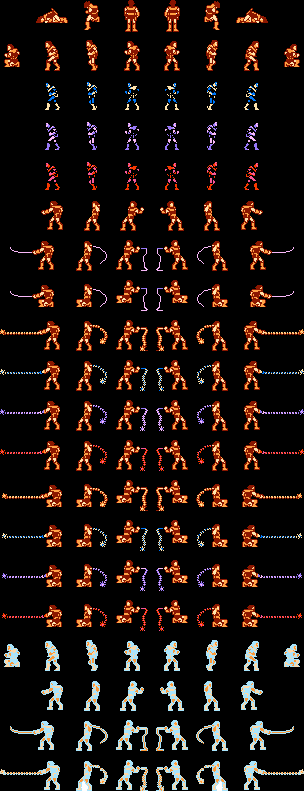
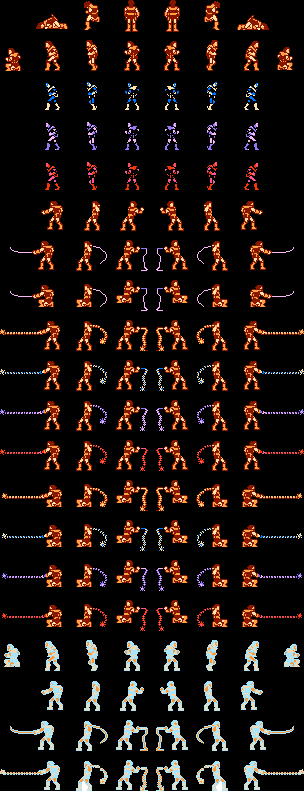
trynna make him sit but messed up

diff --git a/Castlevania/main.cpp b/Castlevania/main.cpp
@@ -10,6 +10,9 @@
 
 #include "Simon.h"
 
+#include <fstream>
+#include <vector>
+
 #define WINDOW_CLASS_NAME L"SampleWindow"
 #define MAIN_WINDOW_TITLE L"CastleVania"
 
@@ -57,6 +60,8 @@ void CSampleKeyHander::KeyState(BYTE *states)
 		simon->SetState(SIMON_STATE_WALKING_RIGHT);
 	else if (game->IsKeyDown(DIK_LEFT))
 		simon->SetState(SIMON_STATE_WALKING_LEFT);
+	else if (game->IsKeyDown(DIK_DOWN))
+		simon->SetState(SIMON_STATE_SIT);
 	else simon->SetState(SIMON_STATE_IDLE);
 }
 
@@ -88,46 +93,83 @@ void LoadResources()
 
 	LPDIRECT3DTEXTURE9 texsimon = textures->Get(ID_TEX_SIMON);
 
+	//vector<int> arr;
 
-	sprites->Add(10001, 139, 39, 184, 73, texsimon);
+	//ifstream File;
+	//File.open("coords.txt");
 
-	sprites->Add(10002, 200, 39, 221, 73, texsimon);
-	sprites->Add(10003, 238, 39, 264, 73, texsimon);
+	//int n;
+	//while (File >> n) {
+	//	arr.push_back(n);
+	//}
+	//File.close();
 
-	sprites->Add(10011, 118, 39, 147, 73, texsimon);
+	//int j = 0;
+	//for (int i = 0; i < arr.size(); i = i + 4)
+	//{
+	//	sprites->Add(j, arr.at(i), arr.at(i + 1), arr.at(i + 2), arr.at(i + 3), texsimon);
+	//	j++;
+	//}
 
-	sprites->Add(10012, 78, 39, 104, 73, texsimon);
-	sprites->Add(10013, 36, 39, 65, 73, texsimon);
 
+	sprites->Add(0, 141, 39, 184, 73, texsimon);
+
+	sprites->Add(1, 202, 39, 221, 73, texsimon);
+	sprites->Add(2, 239, 39, 264, 73, texsimon);
+
+	sprites->Add(3, 118, 39, 147, 73, texsimon);
+
+	sprites->Add(4, 78, 39, 104, 73, texsimon);
+	sprites->Add(5, 36, 39, 65, 73, texsimon);
+
+	sprites->Add(6, 274, 46, 294, 71, texsimon); //sit right
+
+	sprites->Add(7, 2, 46, 22, 71, texsimon); //sit left
+	
+
+	
 
 	LPANIMATION ani;
 
-	ani = new CAnimation(100);	//100 o day la default time.
-	ani->Add(10001);
+	ani = new CAnimation(100);	
+	ani->Add(0);
 	animations->Add(400, ani);
 
 	ani = new CAnimation(100);
-	ani->Add(10011);
+	ani->Add(3);
 	animations->Add(401, ani);
 
-
 	ani = new CAnimation(100);
-	ani->Add(10001);
-	ani->Add(10002);
-	ani->Add(10003);
+	ani->Add(0);
+	ani->Add(1);
+	ani->Add(2);
 	animations->Add(500, ani);
 
 	ani = new CAnimation(100);
-	ani->Add(10011);
-	ani->Add(10012);
-	ani->Add(10013);
+	ani->Add(3);
+	ani->Add(4);
+	ani->Add(5);
 	animations->Add(501, ani);
+
+	ani = new CAnimation(100);
+	ani->Add(6);
+	ani->Add(0);
+	animations->Add(600, ani);
+
+	ani = new CAnimation(100);
+	ani->Add(7);
+	ani->Add(3);
+	animations->Add(601, ani);
+
+
 
 	simon = new CSimon();
 	CSimon::AddAnimation(400);		// idle right
 	CSimon::AddAnimation(401);		// idle left
 	CSimon::AddAnimation(500);		// walk right
 	CSimon::AddAnimation(501);		// walk left
+	CSimon::AddAnimation(600);      // sit right
+	CSimon::AddAnimation(601);      // sit left
 
 	simon->SetPosition(0.0f, 100.0f);
 }

diff --git a/Castlevania/Simon.cpp b/Castlevania/Simon.cpp
@@ -12,7 +12,7 @@ void CSimon::Update(DWORD dt)
 	}
 
 	// simple screen edge collision!!!
-	if (vx > 0 && x > 290) x = 290;
+	if (vx > 0 && x > 470) x = 0;
 	if (vx < 0 && x < 0) x = 0;
 }
 
@@ -21,8 +21,16 @@ void CSimon::Render()
 	int ani;
 	if (vx == 0)
 	{
-		if (nx>0) ani = SIMON_ANI_IDLE_RIGHT;
-		else ani = SIMON_ANI_IDLE_LEFT;
+		if (this->GetState() == SIMON_STATE_SIT)
+		{
+			 if(nx > 0) ani = SIMON_ANI_SIT_RIGHT;
+			 else ani = SIMON_ANI_SIT_LEFT;
+		}
+		else
+		{
+			if(nx > 0) ani = SIMON_ANI_IDLE_RIGHT;
+			else ani = SIMON_ANI_IDLE_LEFT;
+		}
 	}
 	else if (vx > 0)
 		ani = SIMON_ANI_WALKING_RIGHT;
@@ -47,7 +55,9 @@ void CSimon::SetState(int state)
 	case SIMON_STATE_JUMP:
 		if (y == 100)
 			vy = -SIMON_JUMP_SPEED_Y;
-
+	case SIMON_STATE_SIT:
+		vx = 0;
+		break;
 	case SIMON_STATE_IDLE:
 		vx = 0;
 		break;

diff --git a/Castlevania/Simon.h b/Castlevania/Simon.h
@@ -9,11 +9,15 @@
 #define SIMON_STATE_WALKING_RIGHT	100
 #define SIMON_STATE_WALKING_LEFT	200
 #define SIMON_STATE_JUMP			300
+#define SIMON_STATE_SIT             400
+
 
 #define SIMON_ANI_IDLE_RIGHT		0
 #define SIMON_ANI_IDLE_LEFT			1
 #define SIMON_ANI_WALKING_RIGHT		2
 #define SIMON_ANI_WALKING_LEFT		3
+#define SIMON_ANI_SIT_RIGHT        4
+#define SIMON_ANI_SIT_LEFT         5
 
 class CSimon : public CGameObject
 {
